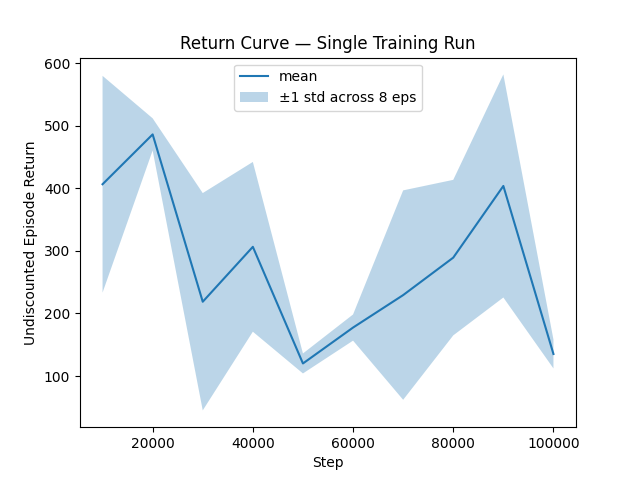
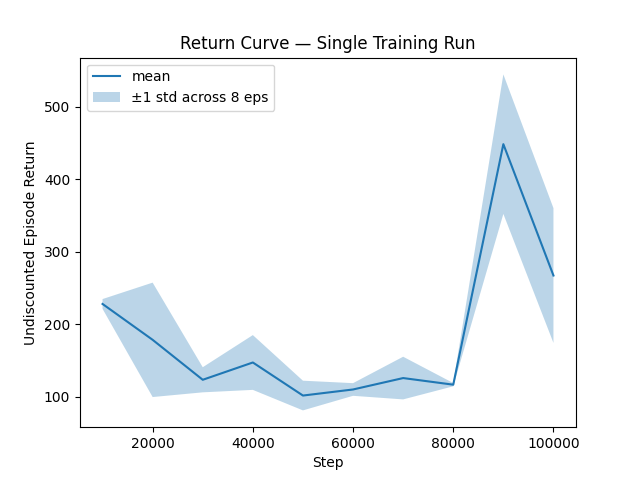
td3 mountaincarcontinuous and sac pendulum

diff --git a/examples/experiments/plot.py b/examples/experiments/plot.py
@@ -2,7 +2,7 @@ import json, sys, os
 import numpy as np
 import matplotlib.pyplot as plt
 
-EXPERIMENT_NAME = 'dqn_cartpole_gymnax'
+EXPERIMENT_NAME = 'sac_pendulum_gymnax'
 if len(sys.argv) > 1: EXPERIMENT_NAME = sys.argv[1]
 
 EVAL_EPS = 256